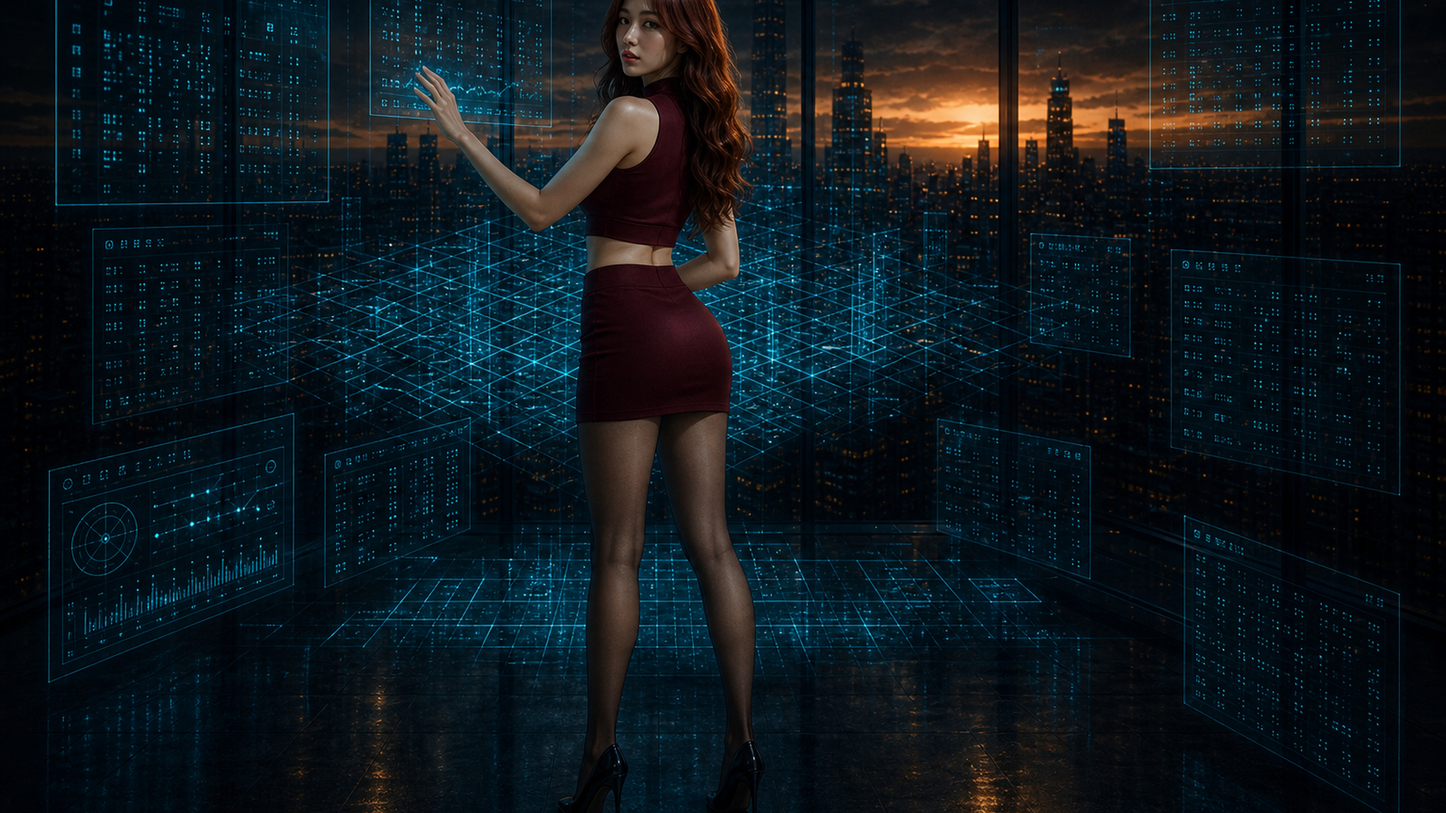
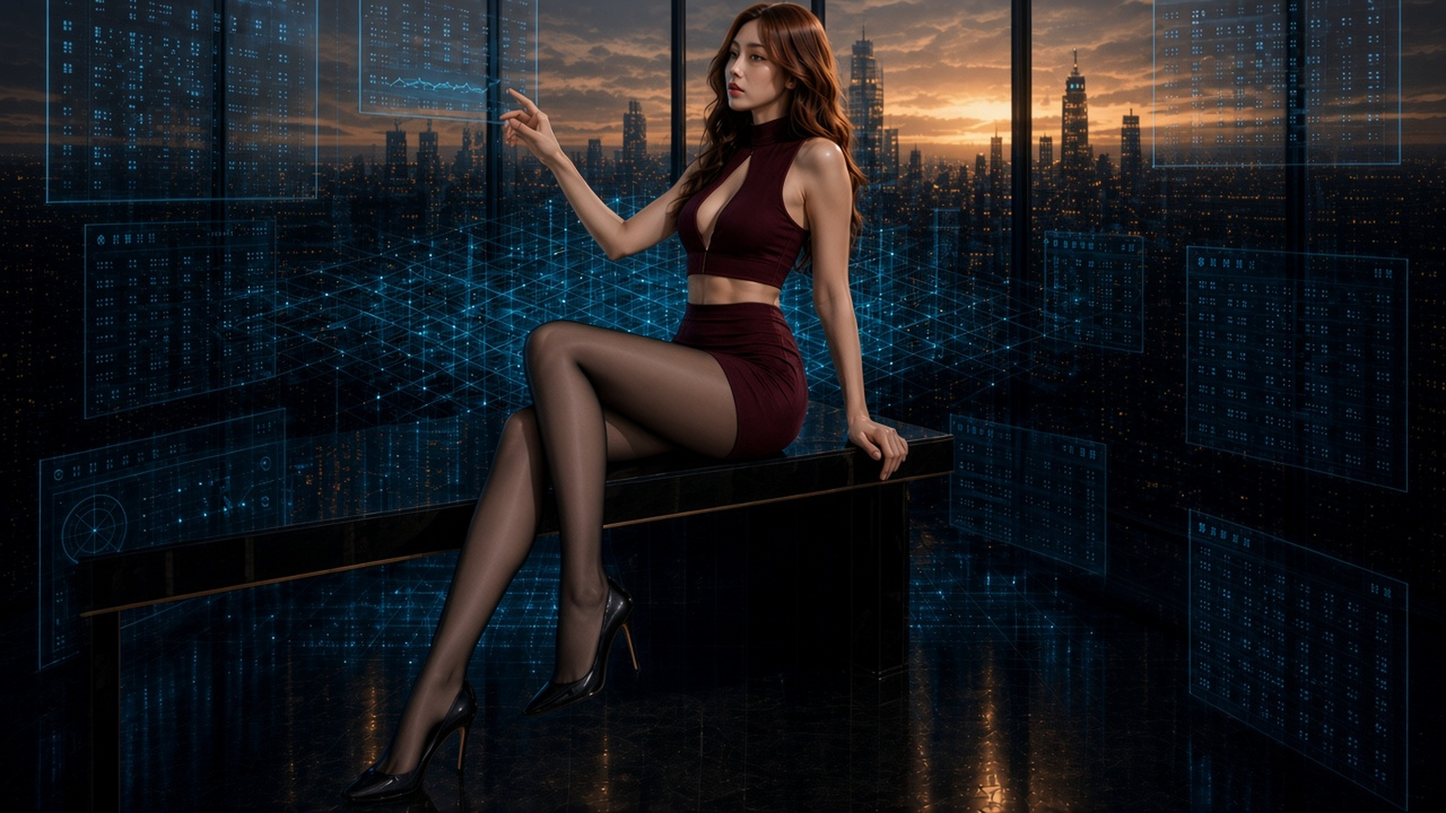
Seat neon-dystopia hour 18 on the dusk OS console
Keep the wine-haired operator closer in 16:9 with sheer black hose, and leave local trials untracked.

diff --git a/images/neon-dystopia/task-blade-runner-2049.md b/images/neon-dystopia/task-blade-runner-2049.md
@@ -10,7 +10,7 @@
 - 翻譯的是色域、光、天氣、建築尺度與時段情緒
 - 即使只做 12–16 張獨特圖，仍須保留 `0.jpg` 到 `23.jpg`
 
-本文件是主題研究與產圖 brief。`9.jpg`–`14.jpg` 已各換成獨立實體圖（該段依當次指示含人物）。`12.jpg` 依後續指示把華勒斯水殿人物改為黑金兩件式、加大胸前鏤空、極薄黑褲襪；`15.jpg`–`17.jpg` 依後續指示改成 12／20 的剪裁：兩件式、胸前或背後鑽空、淺薄白皙絲襪；`15` 去掉大衣；`16` 酒紅兩件式改為側坐控制台、Pretty Polly 米色 10 denier 乾透褲襪（選定 C，排除油亮 B）、上半身膚色調亮與腿對齊；`17` 冰灰回眸改為窗沿側坐、背後鑽空、迷你裙下襬再明顯上收（3 公分指令無效後改用可見的大腿露出量）、5 denier 近乎隱形乾透褲襪、膚色與腿對齊、回眸看鏡頭；`18.jpg` 為黃昏 OS 酒紅長捲髮操作者、超薄透膚黑褲襪；`19.jpg` 為體積孿生裡的酒紅捲髮操作者（正面微側、透膚黑褲襪）；`20.jpg` 為夜前操作甲板的酒紅捲髮操作者（歐美日本混血嘗試、極薄酒紅薄紗褲襪、高領加大胸前鏤空上衣；金茶色絲光易被讀成油亮裸腿，已改色）。
+本文件是主題研究與產圖 brief。`9.jpg`–`14.jpg` 已各換成獨立實體圖（該段依當次指示含人物）。`12.jpg` 依後續指示把華勒斯水殿人物改為黑金兩件式、加大胸前鏤空、極薄黑褲襪；`15.jpg`–`17.jpg` 依後續指示改成 12／20 的剪裁：兩件式、胸前或背後鑽空、淺薄白皙絲襪；`15` 去掉大衣；`16` 酒紅兩件式改為側坐控制台、Pretty Polly 米色 10 denier 乾透褲襪（選定 C，排除油亮 B）、上半身膚色調亮與腿對齊；`17` 冰灰回眸改為窗沿側坐、背後鑽空、迷你裙下襬再明顯上收（3 公分指令無效後改用可見的大腿露出量）、5 denier 近乎隱形乾透褲襪、膚色與腿對齊、回眸看鏡頭；`18.jpg` 為黃昏 OS 酒紅長捲髮操作者改為控制台側坐、油亮黑褲襪（B+C）；`19.jpg` 為體積孿生裡的酒紅捲髮操作者（正面微側、透膚黑褲襪）；`20.jpg` 為夜前操作甲板的酒紅捲髮操作者（歐美日本混血嘗試、極薄酒紅薄紗褲襪、高領加大胸前鏤空上衣；金茶色絲光易被讀成油亮裸腿，已改色）。
 
 ## 現況對照
 
@@ -27,7 +27,7 @@
 | `15` | `15.jpg` | 城市 OS＋黑金兩件式、胸前鑽空、淺薄白皙絲襪 | 大衣已拿掉；褲襪淡、薄 |
 | `16` | `16.jpg` | 交通／電網 OS＋酒紅兩件式側坐、Pretty Polly 米色 10 denier 乾透褲襪 | 膚色已調亮；選定 C 乾透，不是 B 的強亮面 |
 | `17` | `17.jpg` | 行政區模組＋冰灰窗沿側坐、回眸、高光油亮裸色絲襪 | 迷你裙保留；材質對齊亮面尼龍商品圖，不是內衣目錄 |
-| `18` | `18.jpg` | 黃昏 OS＋酒紅捲髮回眸、透膚黑褲襪 | 青界面壓過琥珀天際線 |
+| `18` | `18.jpg` | 黃昏 OS＋酒紅捲髮側坐、微近、短裙、緞面黑褲襪 | 油光已收；青界面壓過琥珀天際線 |
 | `19` | `19.jpg` | 體積孿生＋酒紅捲髮正面微側 | 系統填滿景深；透膚黑褲襪 |
 | `20` | `20.jpg` | 操作甲板＋酒紅捲髮、極薄褲襪、加大胸前鏤空 | 擋風玻璃＝桌面；夜前 |
 | `21–22` | `22.jpg` | 銀雪繭建築遠景、無人雪階 | 銀白、無廣告；21 與 22 同一張 |
@@ -183,7 +183,7 @@ Deakins 要大面積死黑，只靠載具燈；浪打來才被照到，不要照
 | `15` | OS 主畫面＋操作者：多重視窗、中央城市孿生 | 午後、界面剛亮；窄裙／透明絲襪／高跟鞋 |
 | `16` | 交通／電網圖層＋酒紅兩件式側坐操作者（低髮髻、側臉） | 儀表密度升高；Pretty Polly 米色 10 denier 乾透褲襪 |
 | `17` | 行政區模組＋銀短髮操作者（窗沿側坐回眸） | 更近、更幾何；冰灰兩件式；下襬再上收；5 denier 近乎隱形褲襪 |
-| `18` | 黃昏 OS＋酒紅捲髮回眸 | 青界面光壓過琥珀天際線；超薄透膚黑褲襪 |
+| `18` | 黃昏 OS＋酒紅捲髮側坐 | 青界面光壓過琥珀天際線；油亮黑褲襪 |
 | `19` | 全幅體積城市孿生＋操作者正面微側 | 系統幾乎填滿景深 |
 | `20` | 操作甲板＋極薄酒紅褲襪、加大胸前鏤空 | 夜前，城市＝桌布 |
 
@@ -233,7 +233,7 @@ Villeneuve：從凍結的雪定義更殘酷的未來 LA，銀白而不是黑。[
 | `15` | `15.jpg` | 城市 OS＋黑金兩件式 | 胸前鑽空、淺薄白皙絲襪；午後界面 |
 | `16` | `16.jpg` | 交通／電網＋酒紅兩件式側坐 | Pretty Polly 米色 10 denier 乾透褲襪；膚色與腿對齊；儀表密度升高 |
 | `17` | `17.jpg` | 行政區模組＋冰灰窗沿側坐回眸 | 背後鑽空、下襬再上收、5 denier 近乎隱形褲襪、膚色與腿對齊 |
-| `18` | `18.jpg` | 黃昏 OS＋酒紅捲髮回眸 | 透膚黑褲襪；界面光壓過天際線 |
+| `18` | `18.jpg` | 黃昏 OS＋酒紅捲髮側坐 | 油亮黑褲襪；界面光壓過天際線 |
 | `19` | `19.jpg` | 全幅體積孿生＋正面微側操作者 | 系統填滿景深；透膚黑褲襪 |
 | `20` | `20.jpg` | 操作甲板＋正面微側操作者 | 擋風玻璃＝桌面；極薄酒紅薄紗褲襪、高領加大胸前鏤空，無後中縫 |
 | `22` | `22.jpg` | 銀雪外觀 | 繭形建築、雪階 |
